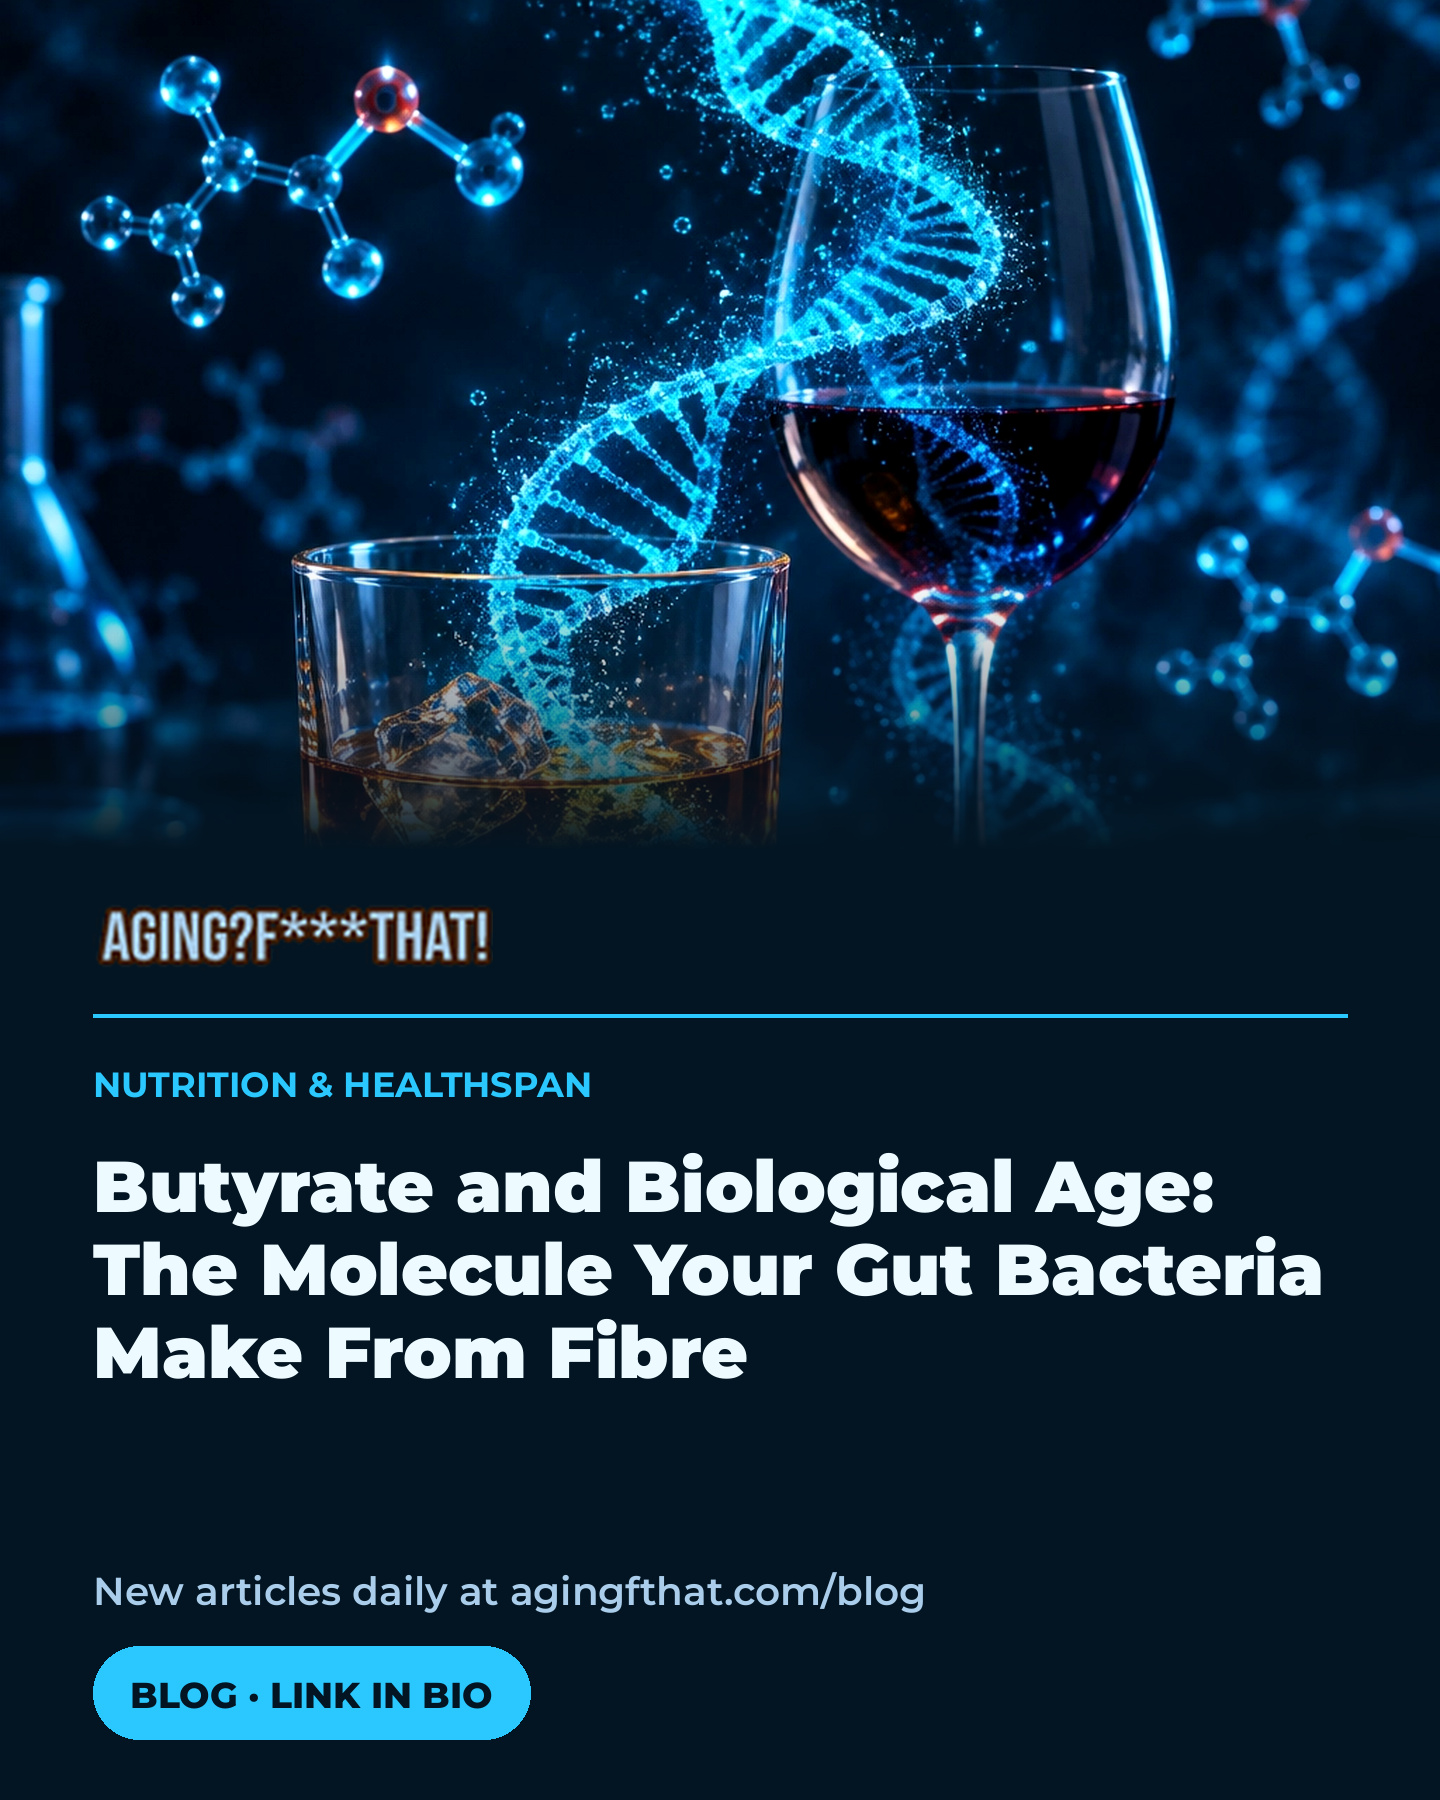
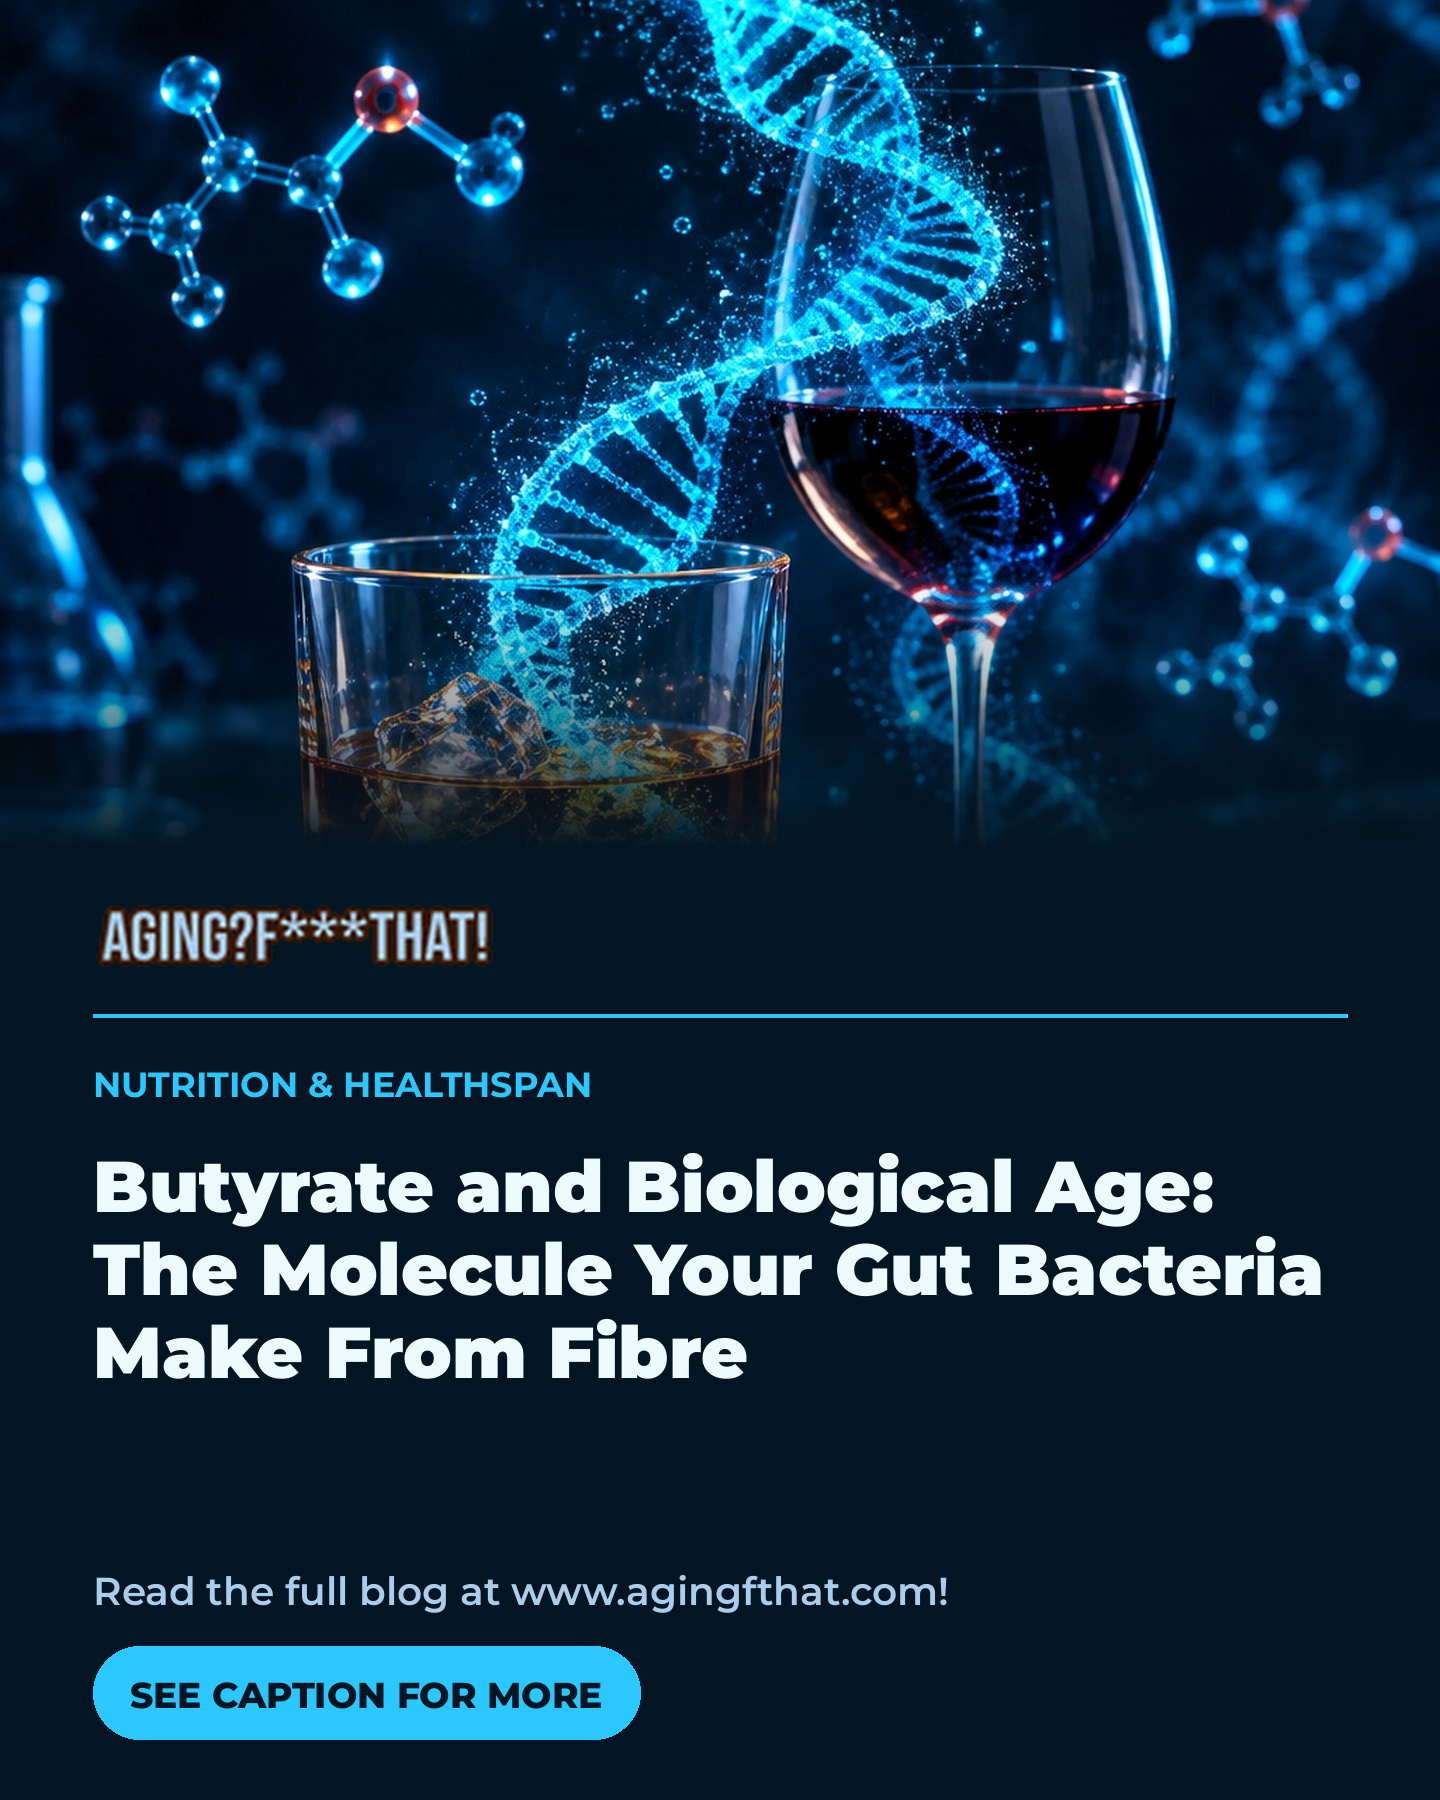
Rebuild social images with SEE CAPTION FOR MORE pill

Changed region(s): [[0.0625, 0.8711, 0.6562, 0.9644]]

diff --git a/build_story.py b/build_story.py
@@ -27,9 +27,9 @@ def wrap(d,t,f,maxw):
 EYEBROW="NUTRITION & HEALTHSPAN"
 STATEMENT=("Butyrate and Biological Age: The Molecule Your Gut Bacteria Make From Fibre")
 CAPTION=("Your gut bacteria ferment fibre into butyrate. Colon cells use it as fuel and researchers study it for effects on inflammation, the gut barrier and gene regulation. A new article separates the credible science from the hype, explains why the UK averages 16.4 grams of fibre a day against a 30-gram recommendation, and gives a five-step protocol to build the fibre habit properly.")
-FOOTER="New articles daily at agingfthat.com/blog"
+FOOTER="Read the full blog at www.agingfthat.com!"
 TAGS="#healthspan  #longevity"
-PILL="BLOG \u00b7 LINK IN BIO"
+PILL="SEE CAPTION FOR MORE"
 OUT="social/butyrate-fibre-biological-age-story"
 
 ART_H=int(H*0.40)

diff --git a/build_social.py b/build_social.py
@@ -27,8 +27,8 @@ def wrap(d,t,f,maxw):
 
 TITLE="Butyrate and Biological Age: The Molecule Your Gut Bacteria Make From Fibre"
 EYEBROW="NUTRITION & HEALTHSPAN"
-LINE="New articles daily at agingfthat.com/blog"
-PILL="BLOG \u00b7 LINK IN BIO"
+LINE="Read the full blog at www.agingfthat.com!"
+PILL="SEE CAPTION FOR MORE"
 OUT="social/butyrate-fibre-biological-age"
 
 art=Image.open("/tmp/hero.webp").convert("RGB")
